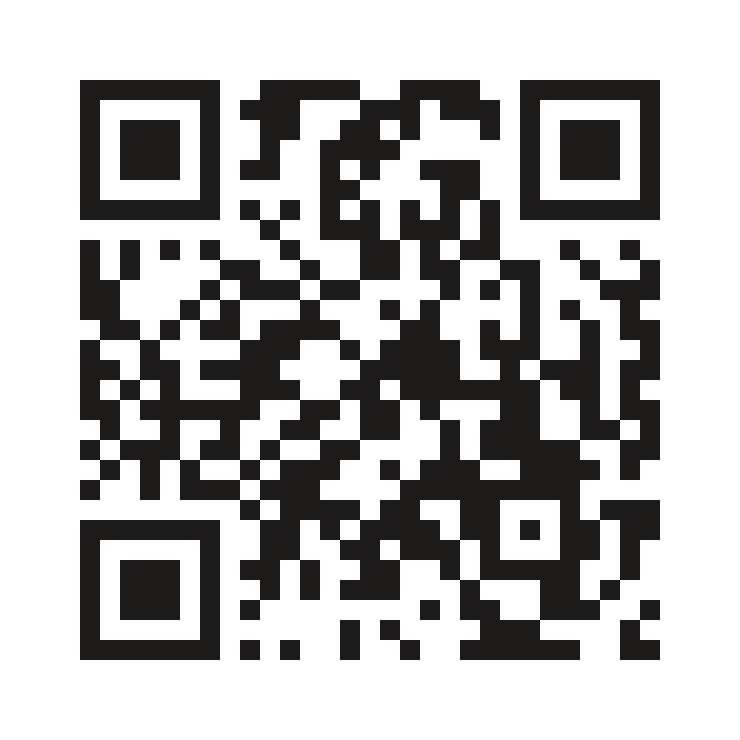
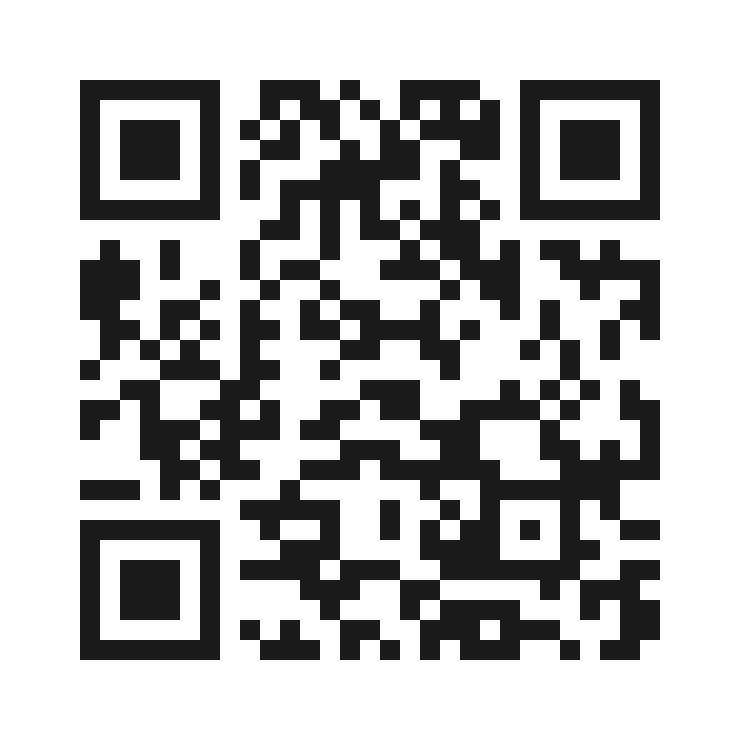
Add files via upload

Changed region(s): [[0.0932, 0.0932, 0.9014, 0.9014], [0.0932, 0.3108, 0.1865, 0.4041], [0.2176, 0.3419, 0.2486, 0.4351]]

diff --git a/index.html b/index.html
@@ -7,17 +7,17 @@
 <meta name="theme-color" content="#f2f1ee">
 <title>Константин Бояркин — психолог · КПТ, Санкт-Петербург</title>
 <meta name="description" content="Константин Бояркин — психолог, когнитивно-поведенческая терапия. Помогаю с тревогой, апатией, выгоранием и навязчивыми мыслями. Санкт-Петербург и онлайн.">
-<link rel="canonical" href="https://eimnc.github.io/psy/">
+<link rel="canonical" href="https://psy.ooo/">
 <meta property="og:type" content="website">
 <meta property="og:title" content="Константин Бояркин — психолог · КПТ">
 <meta property="og:description" content="Моя задача — помочь вам разобраться в том, что происходит, и найти конкретные шаги к решению ваших проблем. Санкт-Петербург и онлайн.">
-<meta property="og:image" content="https://eimnc.github.io/psy/assets/og-preview.png">
-<meta property="og:url" content="https://eimnc.github.io/psy/">
+<meta property="og:image" content="https://psy.ooo/assets/og-preview.png">
+<meta property="og:url" content="https://psy.ooo/">
 <meta property="og:locale" content="ru_RU">
 <meta name="twitter:card" content="summary_large_image">
 <meta name="twitter:title" content="Константин Бояркин — психолог · КПТ">
 <meta name="twitter:description" content="Моя задача — помочь вам разобраться в том, что происходит, и найти конкретные шаги к решению ваших проблем. Санкт-Петербург и онлайн.">
-<meta name="twitter:image" content="https://eimnc.github.io/psy/assets/og-preview.png">
+<meta name="twitter:image" content="https://psy.ooo/assets/og-preview.png">
   <link rel="icon" href="favicon.ico?v=2" sizes="32x32">
   <link rel="icon" href="assets/favicon.svg?v=2" type="image/svg+xml">
   <link rel="apple-touch-icon" href="apple-touch-icon.png?v=2">
@@ -129,7 +129,7 @@
           {
             "@type": "Question",
             "name": "Что делать, если я никогда не был(а) у психолога?",
-            "acceptedAnswer": { "@type": "Answer", "text": "Волноваться перед первой встречей — совершенно нормально. От вас не требуется ничего особенного: не нужно готовить «правильные» слова или разбираться в терминах. Говорите как говорится — я помогу вопросами и подскажу, с чего начать. Темп работы задаёте вы." }
+            "acceptedAnswer": { "@type": "Answer", "text": "Волноваться перед первой встречей — совершенно нормально. От вас не требуется ничего особенного: не нужно готовить «правильные» слова или разбираться в терминах. Говорите как говорится — я помогу вопросами и подскажу, с чего начать." }
           },
           {
             "@type": "Question",
@@ -920,7 +920,7 @@
               <span style="font-size:16px;font-weight:600;color:#1c1b19;line-height:1.5">Что делать, если я никогда не был(а) у психолога?</span>
               <span class="faq-x" aria-hidden="true" style="flex:none;width:26px;height:26px;display:grid;place-items:center;color:#94918a"><svg width="15" height="15" viewBox="0 0 15 15" fill="none" stroke="currentColor" stroke-width="1.4" stroke-linecap="round"><path d="M7.5 1.5v12M1.5 7.5h12"></path></svg></span>
             </summary>
-            <p style="margin:0;padding:0 46px 26px 0;font-size:15px;line-height:1.7;color:#54524c;text-wrap:pretty">Волноваться перед первой встречей — совершенно нормально. От вас не требуется ничего особенного: не нужно готовить «правильные» слова или разбираться в терминах. Говорите как говорится — я помогу вопросами и подскажу, с чего начать. Темп работы задаёте вы.</p>
+            <p style="margin:0;padding:0 46px 26px 0;font-size:15px;line-height:1.7;color:#54524c;text-wrap:pretty">Волноваться перед первой встречей — совершенно нормально. От вас не требуется ничего особенного: не нужно готовить «правильные» слова или разбираться в терминах. Говорите как говорится — я помогу вопросами и подскажу, с чего начать.</p>
           </details>
           <details class="faq" style="border-top:1px solid #dddbd5">
             <summary style="display:flex;align-items:center;justify-content:space-between;gap:20px;padding:22px 0;cursor:pointer;-webkit-tap-highlight-color:transparent">
@@ -1078,7 +1078,7 @@
                   <div style="font-size:11px;font-weight:600;letter-spacing:0.14em;text-transform:uppercase;color:#94918a">Запись и вопросы</div>
                   <div style="margin-top:8px;font-size:15px;font-weight:600;color:#1c1b19">t.me/eimnc</div>
                   <div style="margin-top:4px;font-size:13.5px;color:#54524c"><a data-tel="1" style="color:#54524c;text-decoration:none"></a></div>
-                  <div style="margin-top:4px;font-size:12.5px;color:#94918a">eimnc.github.io/psy</div>
+                  <div style="margin-top:4px;font-size:12.5px;color:#94918a">psy.ooo</div>
                 </div>
               </div>
             </div>
